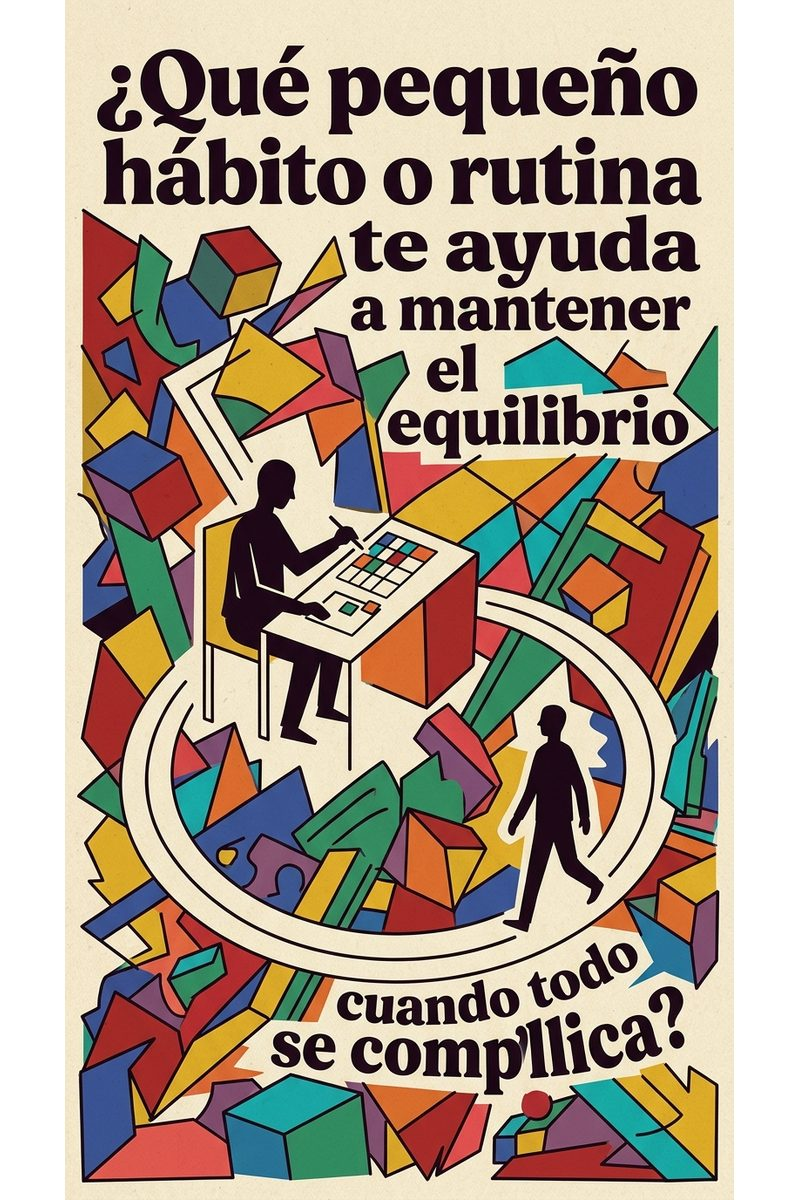
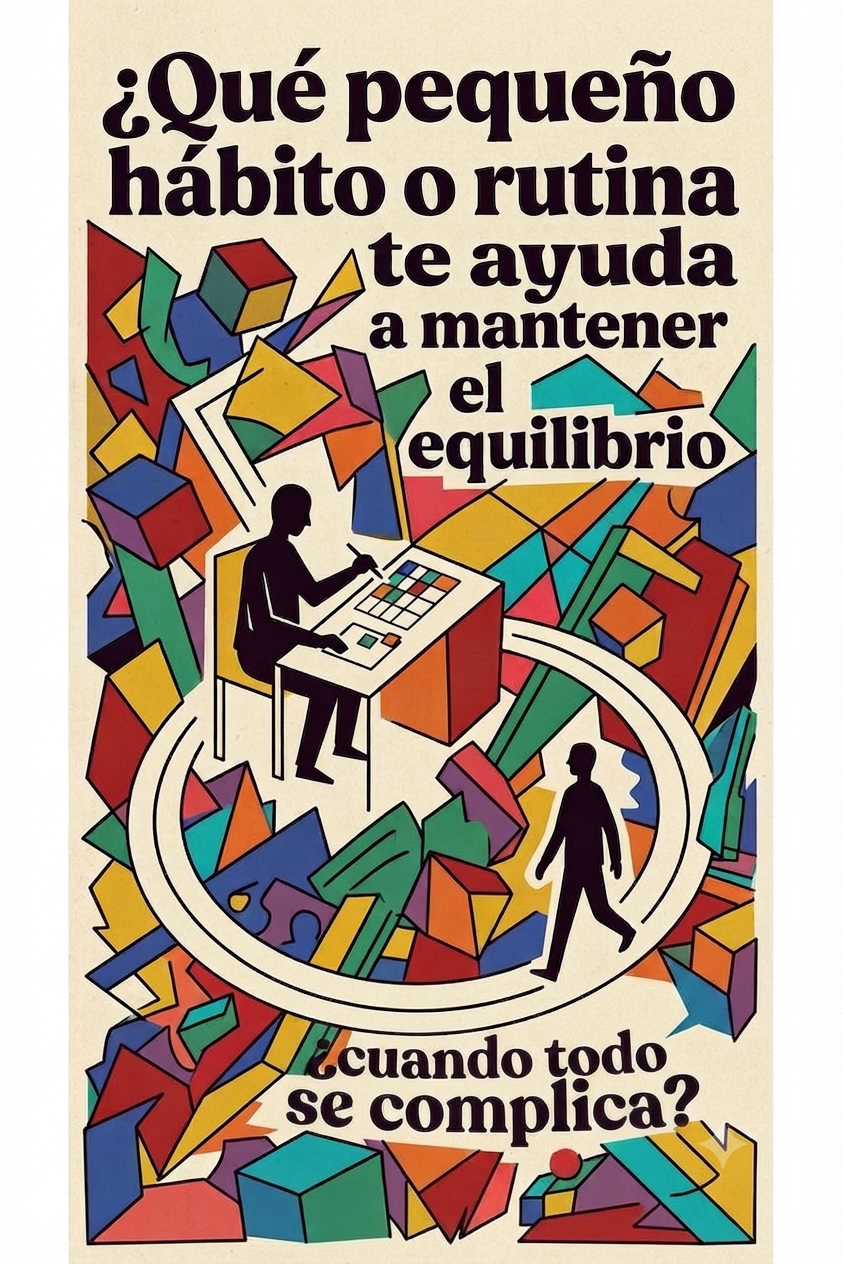
responsive topbar, muestra carta robada al terapeuta, saca secciones preview, auto-muestra ultima carta asignada

diff --git a/app/app.js b/app/app.js
@@ -590,6 +590,17 @@ function sincronizarCartasTerapeuta(activa) {
   if (changes) {
     historial[sesionId] = arr
     guardarHistorial(historial)
+    // Mostrar la ultima carta asignada por el terapeuta
+    const latest = activa.sesion.cartas[activa.sesion.cartas.length - 1]
+    if (latest && latest.mazoId) {
+      const m = state.mazos[latest.mazoId]
+      const c = m?.cartas.find(x => x.codigo === latest.codigo)
+      if (c) {
+        const entry = arr.find(h => h.codigo === c.codigo && h.mazoId === latest.mazoId && h.desdeTerapeuta)
+        if (entry) state._pacCartaId = entry.id
+        setTimeout(() => renderCartaPaciente(c), 0)
+      }
+    }
   }
 }
 
@@ -710,6 +721,17 @@ async function verificarSesionActiva() {
         historial[sesionId] = arr
         guardarHistorial(historial)
         renderHistorialPaciente()
+        // Mostrar la ultima carta asignada por el terapeuta
+        const latest = data.cartas[data.cartas.length - 1]
+        if (latest && latest.mazoId) {
+          const m = state.mazos[latest.mazoId]
+          const c = m?.cartas.find(x => x.codigo === latest.codigo)
+          if (c) {
+            const entry = arr.find(h => h.codigo === c.codigo && h.mazoId === latest.mazoId && h.desdeTerapeuta)
+            if (entry) state._pacCartaId = entry.id
+            renderCartaPaciente(c)
+          }
+        }
       }
     }
   }
@@ -791,6 +813,21 @@ function renderCartaPaciente(carta) {
         desdePaciente: true,
       })
       guardarPacientes()
+
+      const code = activa.sesion.codigo
+      fsBuscarCodigoActivo(code).then(data => {
+        if (!data) return
+        const cartas = data.cartas || []
+        if (cartas.some(c => c.codigo === carta.codigo)) return
+        cartas.push({
+          codigo: carta.codigo,
+          mazoId: state.mazoActivo,
+          notas: "",
+          asignadaEn: new Date().toISOString(),
+          desdePaciente: true,
+        })
+        fsGuardarCodigoActivo(code, { ...data, cartas })
+      })
     }
   } else {
     state._pacCartaId = existing.id
@@ -1037,6 +1074,7 @@ function popularSelectMazos(select) {
 // ============== TERAPEUTA - PACIENTES ==============
 
 function renderTerapeuta() {
+  if (state._unsubActiveCode) { state._unsubActiveCode(); state._unsubActiveCode = null }
   $("#app").innerHTML = ""
 
   if (state.vistaT === "lista") renderListaPacientes()
@@ -1462,11 +1500,10 @@ function renderSesionView() {
       return
     }
 
-    const notas = $("#sv-notas-carta").value.trim()
     sesion.cartas.push({
       codigo: codigoMostrado,
       mazoId: mazoActual,
-      notas: notas,
+      notas: "",
       asignadaEn: new Date().toISOString(),
     })
     guardarPacientes()
@@ -1482,7 +1519,7 @@ function renderSesionView() {
           codigo: codigoMostrado,
           mazoId: mazoActual,
           timestamp: new Date().toISOString(),
-          notas: notas,
+          notas: "",
           desdeTerapeuta: true,
         })
         phist[state.sesionId] = hArr
@@ -1490,7 +1527,6 @@ function renderSesionView() {
       }
     } catch (_) {}
 
-    $("#sv-notas-carta").value = ""
     $("#sv-carta-area").hidden = true
     cartaSeleccionada = null
     document.querySelectorAll(".sv-card-browser-item").forEach(el => el.classList.remove("seleccionada"))
@@ -1540,16 +1576,30 @@ function renderSesionView() {
     setText("sv-carta-codigo-overlay", carta.codigo)
     setText("sv-carta-codigo", carta.codigo)
     setText("sv-carta-pregunta", carta.pregunta)
-    setText("sv-carta-objetivo", carta.objetivo || "")
-    setText("sv-carta-tarea", carta.tarea)
-    poblarLista("sv-carta-profundizacion", carta.profundizacion)
-    poblarLista("sv-carta-observacion", carta.observacion)
-    poblarLista("sv-carta-intervenciones", carta.intervenciones)
-    const notasCarta = document.getElementById("sv-notas-carta")
-    if (notasCarta) { notasCarta.value = ""; notasCarta.focus() }
+
   }
 
   renderCartasAsignadas(sesion)
+
+  if (sesion.codigo) {
+    state._unsubActiveCode = db.collection(FS_COL_CODIGOS).doc(sesion.codigo)
+      .onSnapshot(doc => {
+        if (!doc.exists) return
+        const data = doc.data()
+        if (!data.cartas) return
+        let changed = false
+        for (const c of data.cartas) {
+          if (c.desdePaciente && !sesion.cartas.some(x => x.codigo === c.codigo)) {
+            sesion.cartas.push(c)
+            changed = true
+          }
+        }
+        if (changed) {
+          guardarPacientes()
+          renderCartasAsignadas(sesion)
+        }
+      })
+  }
 }
 
 function renderCartasAsignadas(sesion) {
@@ -1567,14 +1617,18 @@ function renderCartasAsignadas(sesion) {
 
   for (const c of sesion.cartas) {
     const mazo = state.mazos[c.mazoId]
+    const desdePaciente = c.desdePaciente
     const div = document.createElement("div")
     div.className = "sv-carta-asignada"
+    const imgSrc = mazo ? `assets/img/${mazo.numero}/${c.codigo}.jpg` : ""
     div.innerHTML = `
       <div class="sv-carta-asignada-head">
         <span>${c.codigo}</span>
         <span class="mazo-label">${mazo?.nombre || c.mazoId}</span>
       </div>
-      <textarea data-codigo="${c.codigo}" placeholder="Notas sobre esta carta...">${escapeHtml(c.notas || "")}</textarea>
+      ${desdePaciente ? '<span style="font-size:0.75rem;font-weight:600;color:#1a2a5a;background:#dce3f0;padding:0.15rem 0.5rem;border-radius:4px;align-self:flex-start">Robada por paciente</span>' : ""}
+      ${imgSrc ? `<img src="${imgSrc}" alt="${c.codigo}" style="width:100%;max-width:300px;border-radius:8px;cursor:pointer" onclick="abrirModal(this)" loading="lazy">` : ""}
+      <textarea data-codigo="${c.codigo}" placeholder="Notas del terapeuta sobre esta carta...">${escapeHtml(c.notas || "")}</textarea>
       <div style="display:flex;justify-content:flex-end">
         <button class="btn-eliminar-carta" data-codigo="${c.codigo}">Quitar</button>
       </div>
@@ -1869,14 +1923,18 @@ function renderHistorialSesion() {
   } else {
     for (const c of sesion.cartas) {
       const mazo = state.mazos[c.mazoId]
+      const desdePaciente = c.desdePaciente
       const div = document.createElement("div")
       div.className = "sv-carta-asignada"
+      const imgSrc = mazo ? `assets/img/${mazo.numero}/${c.codigo}.jpg` : ""
       div.innerHTML = `
         <div class="sv-carta-asignada-head">
           <span class="sv-carta-codigo-click">${c.codigo}</span>
           <span class="mazo-label">${mazo?.nombre || c.mazoId}</span>
         </div>
-        <textarea class="sv-notas" data-codigo="${c.codigo}" placeholder="Notas sobre esta carta..." style="min-height:60px">${escapeHtml(c.notas || "")}</textarea>
+        ${desdePaciente ? '<span style="font-size:0.75rem;font-weight:600;color:#1a2a5a;background:#dce3f0;padding:0.15rem 0.5rem;border-radius:4px;align-self:flex-start">Robada por paciente</span>' : ""}
+        ${imgSrc ? `<img src="${imgSrc}" alt="${c.codigo}" style="width:100%;max-width:300px;border-radius:8px;cursor:pointer;margin-bottom:0.5rem" onclick="abrirModal(this)" loading="lazy">` : ""}
+        <textarea class="sv-notas" data-codigo="${c.codigo}" placeholder="Notas del terapeuta..." style="min-height:60px">${escapeHtml(c.notas || "")}</textarea>
         <div class="hs-carta-expand" hidden></div>
       `
       const ta = div.querySelector("textarea")

diff --git a/app/index.html b/app/index.html
@@ -9,7 +9,7 @@
   <link rel="manifest" href="manifest.json" />
   <link rel="apple-touch-icon" href="icon-192.png" />
   <title>MOSAICO</title>
-  <link rel="stylesheet" href="styles.css?v=25" />
+  <link rel="stylesheet" href="styles.css?v=26" />
 </head>
 <body>
   <header class="topbar">
@@ -176,17 +176,8 @@
           <div class="carta-cuerpo">
             <span id="sv-carta-codigo" class="carta-codigo"></span>
             <h2 id="sv-carta-pregunta" class="carta-pregunta"></h2>
-            <div class="cc-objetivo"><strong>Objetivo:</strong> <span id="sv-carta-objetivo"></span></div>
-            <div id="sv-carta-profundizacion" class="cc-lista"><strong>Profundizacion:</strong></div>
-            <div id="sv-carta-observacion" class="cc-lista"><strong>Observacion:</strong></div>
-            <div id="sv-carta-intervenciones" class="cc-lista"><strong>Intervenciones:</strong></div>
-            <div class="carta-tarea">
-              <h3>Tarea</h3>
-              <p id="sv-carta-tarea"></p>
-            </div>
           </div>
         </article>
-        <textarea id="sv-notas-carta" class="sv-notas" placeholder="Notas sobre esta carta..."></textarea>
         <button id="btn-sv-asignar" class="btn-primary">Asignar carta a sesion</button>
       </div>
 
@@ -262,7 +253,7 @@
     }
   </script>
   <script src="firebase-service.js"></script>
-  <script src="app.js?v=31"></script>
+  <script src="app.js?v=33"></script>
 
   <div id="img-modal" class="img-modal" hidden>
     <span class="img-modal-close">&times;</span>

diff --git a/app/styles.css b/app/styles.css
@@ -78,7 +78,15 @@ li { margin-bottom: 0.25em; }
 }
 
 
-.topbar-right { display: flex; align-items: center; gap: 0.5rem; }
+.topbar-right { display: flex; align-items: center; gap: 0.5rem; flex-wrap: wrap; }
+@media (max-width: 600px) {
+  .topbar { flex-wrap: wrap; gap: 0.5rem; min-height: auto; padding: 0.4rem 0.6rem; }
+  .brand-logo { height: 44px; }
+  .brand-name { font-size: 1rem; }
+  .brand-sub { font-size: 0.65rem; }
+  .topbar-right { gap: 0.3rem; }
+  .topbar .btn-ghost { font-size: 0.72rem; padding: 0.35rem 0.6rem; white-space: nowrap; }
+}
 .rol-badge {
   font-size: 0.8rem;
   padding: 0.2rem 0.6rem;

diff --git a/app/service-worker.js b/app/service-worker.js
@@ -1,4 +1,4 @@
-const CACHE = "mosaico-v26"
+const CACHE = "mosaico-v28"
 
 const PRECACHE = [
   "./",
